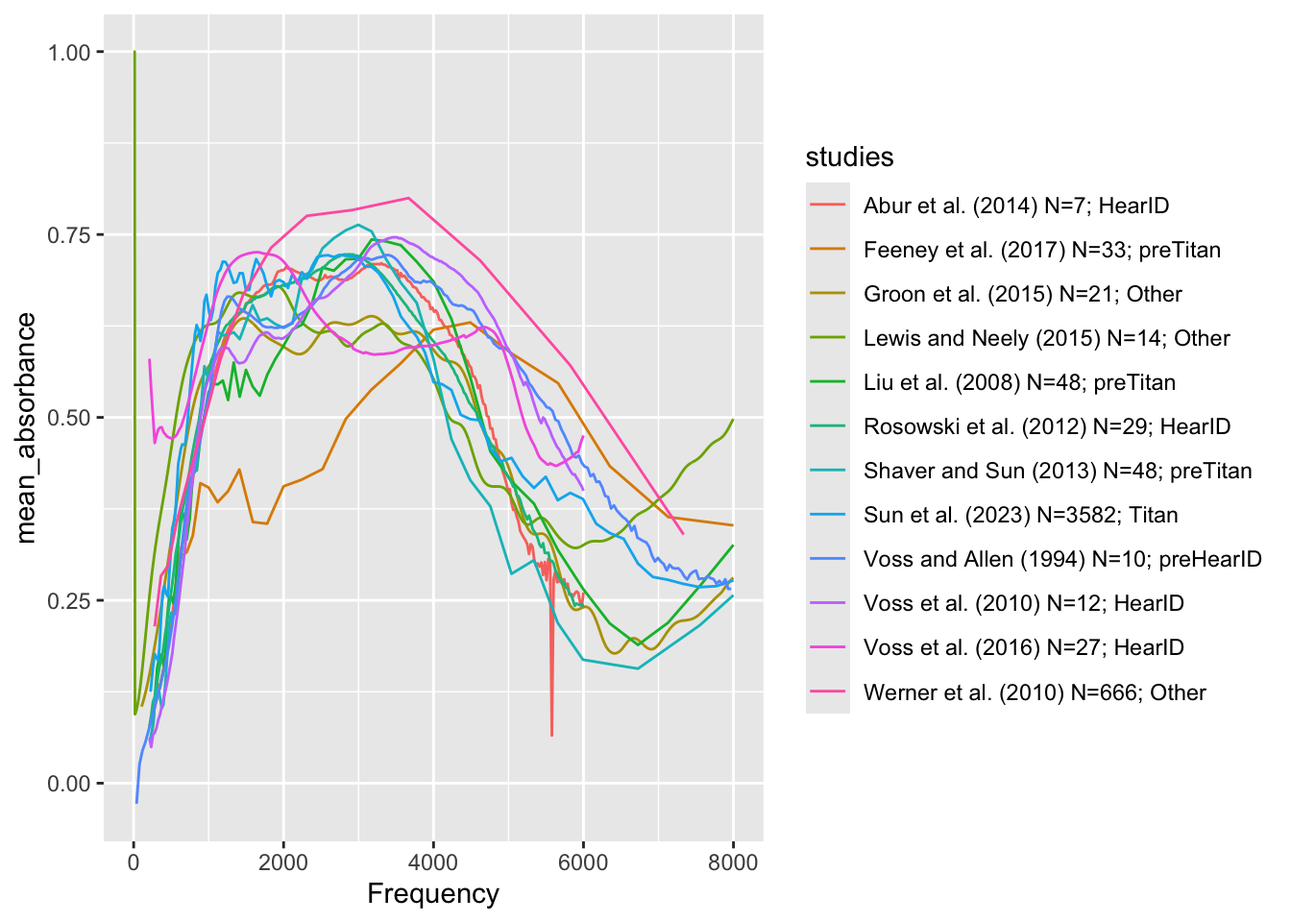
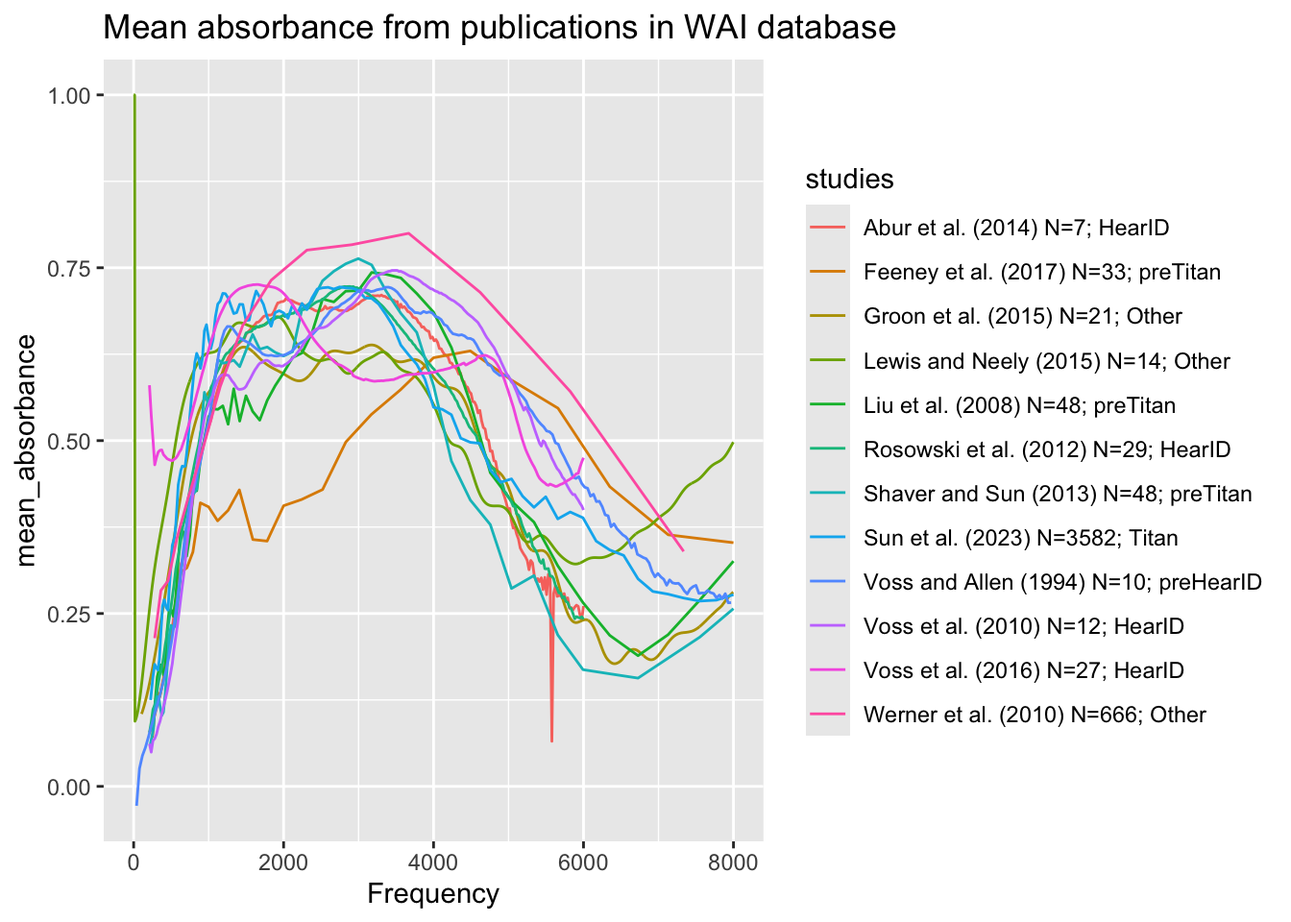
including alt text.

diff --git a/docs/Beta_Simulation.html b/docs/Beta_Simulation.html
@@ -283,7 +283,7 @@ window.Quarto = {
 <p>Time to simulate over different parameter values and sample sizes!</p>
 <div class="cell">
 <div class="sourceCode cell-code" id="cb5"><pre class="sourceCode r code-with-copy"><code class="sourceCode r"><span id="cb5-1"><a href="#cb5-1" aria-hidden="true" tabindex="-1"></a>parameters <span class="ot">&lt;-</span> <span class="fu">seq</span>(<span class="dv">5</span>, <span class="dv">200</span>, <span class="at">by =</span> <span class="dv">2</span>)</span>
-<span id="cb5-2"><a href="#cb5-2" aria-hidden="true" tabindex="-1"></a>n <span class="ot">&lt;-</span> <span class="dv">2</span><span class="sc">:</span><span class="dv">100</span></span>
+<span id="cb5-2"><a href="#cb5-2" aria-hidden="true" tabindex="-1"></a>n <span class="ot">&lt;-</span> <span class="dv">2</span><span class="sc">:</span><span class="dv">500</span></span>
 <span id="cb5-3"><a href="#cb5-3" aria-hidden="true" tabindex="-1"></a>pi <span class="ot">&lt;-</span> .<span class="dv">95</span></span>
 <span id="cb5-4"><a href="#cb5-4" aria-hidden="true" tabindex="-1"></a></span>
 <span id="cb5-5"><a href="#cb5-5" aria-hidden="true" tabindex="-1"></a>beta_df <span class="ot">&lt;-</span> <span class="fu">map</span>(n, \(n) <span class="fu">beta_sims_n</span>(n)) <span class="sc">%&gt;%</span></span>
@@ -296,16 +296,16 @@ window.Quarto = {
 <span id="cb6-3"><a href="#cb6-3" aria-hidden="true" tabindex="-1"></a>  <span class="fu">list_rbind</span>()</span></code><button title="Copy to Clipboard" class="code-copy-button"><i class="bi"></i></button></pre></div>
 <div class="cell-output cell-output-stdout">
 <pre><code>     n PI_percentage     lower     upper     cover alpha beta mean_in_interval
-1   18          0.95 0.3330108 0.6868096 0.9337133    13   13             TRUE
-2   64          0.95 0.4440284 0.5614393 0.9677109   167  167             TRUE
-3   39          0.95 0.4246678 0.5761443 0.9753457   109  109             TRUE
-4   54          0.95 0.4467233 0.5588992 0.9613860   171  171             TRUE
-5   44          0.95 0.4299380 0.5519605 0.9575632   151  151             TRUE
-6   89          0.95 0.4171579 0.6032781 0.9651362    67   67             TRUE
-7   87          0.95 0.4428925 0.5446572 0.9471621   191  191             TRUE
-8   27          0.95 0.4496611 0.5515554 0.8845403   119  119             TRUE
-9  100          0.95 0.3737001 0.6294515 0.9585572    31   31             TRUE
-10  80          0.95 0.4064495 0.5920598 0.9779207    75   75             TRUE</code></pre>
+1  119          0.95 0.4425942 0.5594488 0.9399698   129  129             TRUE
+2  420          0.95 0.4182923 0.5771250 0.9599025    83   83             TRUE
+3   89          0.95 0.4329045 0.5736984 0.9585099   105  105             TRUE
+4  110          0.95 0.4493292 0.5458561 0.9439310   197  197             TRUE
+5  392          0.95 0.3452496 0.6563130 0.9492547    19   19             TRUE
+6  494          0.95 0.4417945 0.5579416 0.9609310   157  157             TRUE
+7  460          0.95 0.2223840 0.7903329 0.9456662     5    5             TRUE
+8  365          0.95 0.4251919 0.5773645 0.9419651    77   77             TRUE
+9  352          0.95 0.4417557 0.5629539 0.9535169   135  135             TRUE
+10  13          0.95 0.4057513 0.6377786 0.9750873    55   55             TRUE</code></pre>
 </div>
 </div>
 <p>This is a random sample of rows from the actual dataset, which has 48902 rows and 8 columns. Each row corresponds to a simulated random sample of size n from a beta distribution with parameters alpha and beta. For each random sample, a normal prediction interval was generated with bounds “lower” and “upper”. “PI_percentage” refers to the intended coverage probability and “cover” refers to the actual coverage probability of said prediction interval over the beta distribution the data was generated from. “mean_in_interval” is a binary variable that states if the prediction interval covered the mean of the distribution.</p>
@@ -317,68 +317,73 @@ window.Quarto = {
 <span id="cb8-2"><a href="#cb8-2" aria-hidden="true" tabindex="-1"></a>  <span class="fu">mutate</span>(<span class="at">diff =</span> cover <span class="sc">-</span> PI_percentage) <span class="sc">%&gt;%</span></span>
 <span id="cb8-3"><a href="#cb8-3" aria-hidden="true" tabindex="-1"></a>  <span class="fu">group_by</span>(n) <span class="sc">%&gt;%</span></span>
 <span id="cb8-4"><a href="#cb8-4" aria-hidden="true" tabindex="-1"></a>  <span class="fu">summarize</span>(<span class="at">mean =</span> <span class="fu">mean</span>(diff), <span class="at">mu_in_interval =</span> <span class="fu">sum</span>(mean_in_interval)<span class="sc">/</span><span class="fu">n</span>())</span>
-<span id="cb8-5"><a href="#cb8-5" aria-hidden="true" tabindex="-1"></a>avg <span class="ot">&lt;-</span> <span class="fu">mean</span>(n_means_df<span class="sc">$</span>mean)</span>
-<span id="cb8-6"><a href="#cb8-6" aria-hidden="true" tabindex="-1"></a><span class="fu">ggplot</span>(n_means_df, <span class="fu">aes</span>(<span class="at">x =</span> n, <span class="at">y =</span> mean)) <span class="sc">+</span> </span>
-<span id="cb8-7"><a href="#cb8-7" aria-hidden="true" tabindex="-1"></a>  <span class="fu">geom_point</span>() <span class="sc">+</span> </span>
-<span id="cb8-8"><a href="#cb8-8" aria-hidden="true" tabindex="-1"></a>  <span class="fu">geom_hline</span>(<span class="at">yintercept =</span> <span class="dv">0</span>, <span class="at">col =</span> <span class="st">"black"</span>)  <span class="sc">+</span></span>
-<span id="cb8-9"><a href="#cb8-9" aria-hidden="true" tabindex="-1"></a>  <span class="fu">geom_hline</span>(<span class="at">yintercept =</span> avg, <span class="at">col =</span> <span class="st">"red"</span>)  <span class="sc">+</span></span>
-<span id="cb8-10"><a href="#cb8-10" aria-hidden="true" tabindex="-1"></a>  <span class="fu">labs</span>(</span>
-<span id="cb8-11"><a href="#cb8-11" aria-hidden="true" tabindex="-1"></a>    <span class="at">x =</span> <span class="st">"sample size"</span>,</span>
-<span id="cb8-12"><a href="#cb8-12" aria-hidden="true" tabindex="-1"></a>    <span class="at">y =</span> <span class="st">"difference between actual and intended coverage"</span>,</span>
-<span id="cb8-13"><a href="#cb8-13" aria-hidden="true" tabindex="-1"></a>    <span class="at">title =</span> <span class="st">"Figure 1"</span>,</span>
-<span id="cb8-14"><a href="#cb8-14" aria-hidden="true" tabindex="-1"></a>    <span class="at">subtitle =</span> <span class="st">"difference between actual and intended coverage probability based on sample size"</span>,</span>
-<span id="cb8-15"><a href="#cb8-15" aria-hidden="true" tabindex="-1"></a>  )</span></code><button title="Copy to Clipboard" class="code-copy-button"><i class="bi"></i></button></pre></div>
+<span id="cb8-5"><a href="#cb8-5" aria-hidden="true" tabindex="-1"></a>avg <span class="ot">&lt;-</span> <span class="fu">mean</span>(n_means_df<span class="sc">$</span>mean)</span></code><button title="Copy to Clipboard" class="code-copy-button"><i class="bi"></i></button></pre></div>
+</div>
+<div class="cell">
+<div class="sourceCode cell-code" id="cb9"><pre class="sourceCode r code-with-copy"><code class="sourceCode r"><span id="cb9-1"><a href="#cb9-1" aria-hidden="true" tabindex="-1"></a><span class="fu">ggplot</span>(n_means_df, <span class="fu">aes</span>(<span class="at">x =</span> n, <span class="at">y =</span> mean)) <span class="sc">+</span> </span>
+<span id="cb9-2"><a href="#cb9-2" aria-hidden="true" tabindex="-1"></a>  <span class="fu">geom_point</span>() <span class="sc">+</span> </span>
+<span id="cb9-3"><a href="#cb9-3" aria-hidden="true" tabindex="-1"></a>  <span class="fu">geom_hline</span>(<span class="at">yintercept =</span> <span class="dv">0</span>, <span class="at">col =</span> <span class="st">"black"</span>)  <span class="sc">+</span></span>
+<span id="cb9-4"><a href="#cb9-4" aria-hidden="true" tabindex="-1"></a>  <span class="fu">geom_hline</span>(<span class="at">yintercept =</span> avg, <span class="at">col =</span> <span class="st">"red"</span>)  <span class="sc">+</span></span>
+<span id="cb9-5"><a href="#cb9-5" aria-hidden="true" tabindex="-1"></a>  <span class="fu">labs</span>(</span>
+<span id="cb9-6"><a href="#cb9-6" aria-hidden="true" tabindex="-1"></a>    <span class="at">x =</span> <span class="st">"sample size"</span>,</span>
+<span id="cb9-7"><a href="#cb9-7" aria-hidden="true" tabindex="-1"></a>    <span class="at">y =</span> <span class="st">"mean difference between actual and intended coverage"</span>,</span>
+<span id="cb9-8"><a href="#cb9-8" aria-hidden="true" tabindex="-1"></a>    <span class="at">title =</span> <span class="st">"Figure 1"</span>,</span>
+<span id="cb9-9"><a href="#cb9-9" aria-hidden="true" tabindex="-1"></a>    <span class="at">subtitle =</span> <span class="st">"difference between actual and intended coverage probability based on sample size"</span>,</span>
+<span id="cb9-10"><a href="#cb9-10" aria-hidden="true" tabindex="-1"></a>  )</span></code><button title="Copy to Clipboard" class="code-copy-button"><i class="bi"></i></button></pre></div>
 <div class="cell-output-display">
 <div>
 <figure class="figure">
-<p><img src="Beta_Simulation_files/figure-html/unnamed-chunk-7-1.png" class="img-fluid figure-img" width="672"></p>
+<p><img src="Beta_Simulation_files/figure-html/unnamed-chunk-8-1.png" class="img-fluid figure-img" alt="A scatter plot titled difference between actual and intended coverage probability based on sample size. The x-axis is sample size and the y-axis is mean difference between actual and intended coverage probability. Each point corresponds to the mean difference between actual and intended coverage probability for simulations of a specific sample size. There are two horizontal lines with slopes of zero. One line has an intercept of zero and the other line has an intercept at the mean difference between actual and intended coverage probability over all simulations. The latter line is above the former line. Points have more vertical spread the closer their x-value is to zero and less vertical spread as their x-value increases." width="672"></p>
 </figure>
 </div>
 </div>
 </div>
-<p>Figure 1 graphs the mean difference between the actual coverage probability and intended coverage probability (calculated as: actual coverage probability - intended coverage probability) per each sample size from 2 to 100. A negative mean difference indicates the actual coverage probability tended to be less than the intended coverage probability, which is undesirable, while a positive mean difference indicates the actual cover probability tended to be more than the intended coverage probability. The mean difference between actual and intended coverage probability seems to converge to a value a little bit above 0 as the sample size increases, indicating that actual coverage probability tends to be more than the intended coverage and that this is more so as sample size increases.</p>
+<p>Figure 1 graphs the mean difference between the actual coverage probability and intended coverage probability (calculated as: actual coverage probability - intended coverage probability) per each sample size from 2 to 500. A negative mean difference indicates the actual coverage probability tended to be less than the intended coverage probability, which is undesirable, while a positive mean difference indicates the actual cover probability tended to be more than the intended coverage probability. The mean difference between actual and intended coverage probability seems to converge to a value a little bit above 0 as the sample size increases, indicating that actual coverage probability tends to be more than the intended coverage and that this is more so as sample size increases.</p>
 <p>For small sample sizes the mean difference between actual and intended coverage probability has a lot more variance around 0 than it does for larger sample sizes, which can be attributed to sampling variability. Overall, absolute differences in actual coverage probability and intended coverage probability don’t appear to extend beyond .02, indicating normal prediction intervals tend to have good coverage probability for symmetric, beta distributed data.</p>
 <div class="cell">
-<div class="sourceCode cell-code" id="cb9"><pre class="sourceCode r code-with-copy"><code class="sourceCode r"><span id="cb9-1"><a href="#cb9-1" aria-hidden="true" tabindex="-1"></a>n_means_df <span class="ot">&lt;-</span> beta_df <span class="sc">%&gt;%</span></span>
-<span id="cb9-2"><a href="#cb9-2" aria-hidden="true" tabindex="-1"></a>  <span class="fu">mutate</span>(<span class="at">diff =</span> cover <span class="sc">-</span> PI_percentage) <span class="sc">%&gt;%</span></span>
-<span id="cb9-3"><a href="#cb9-3" aria-hidden="true" tabindex="-1"></a>  <span class="fu">group_by</span>(n) <span class="sc">%&gt;%</span></span>
-<span id="cb9-4"><a href="#cb9-4" aria-hidden="true" tabindex="-1"></a>  <span class="fu">summarize</span>(<span class="at">mean =</span> <span class="fu">mean</span>(diff), <span class="at">mu_in_interval =</span> <span class="fu">sum</span>(mean_in_interval)<span class="sc">/</span><span class="fu">n</span>()) <span class="sc">%&gt;%</span></span>
-<span id="cb9-5"><a href="#cb9-5" aria-hidden="true" tabindex="-1"></a>  <span class="fu">filter</span>(n <span class="sc">%in%</span> <span class="dv">1</span><span class="sc">:</span><span class="dv">30</span>)</span>
-<span id="cb9-6"><a href="#cb9-6" aria-hidden="true" tabindex="-1"></a></span>
-<span id="cb9-7"><a href="#cb9-7" aria-hidden="true" tabindex="-1"></a><span class="fu">ggplot</span>(n_means_df, <span class="fu">aes</span>(<span class="at">x =</span> n, <span class="at">y =</span> mu_in_interval)) <span class="sc">+</span> </span>
-<span id="cb9-8"><a href="#cb9-8" aria-hidden="true" tabindex="-1"></a>  <span class="fu">geom_point</span>()  <span class="sc">+</span></span>
-<span id="cb9-9"><a href="#cb9-9" aria-hidden="true" tabindex="-1"></a>  <span class="fu">labs</span>(</span>
-<span id="cb9-10"><a href="#cb9-10" aria-hidden="true" tabindex="-1"></a>    <span class="at">x =</span> <span class="st">"sample size"</span>,</span>
-<span id="cb9-11"><a href="#cb9-11" aria-hidden="true" tabindex="-1"></a>    <span class="at">y =</span> <span class="st">"proportion of mu-inclusive prediction intervals"</span>,</span>
-<span id="cb9-12"><a href="#cb9-12" aria-hidden="true" tabindex="-1"></a>    <span class="at">title =</span> <span class="st">"Figure 2"</span>,</span>
-<span id="cb9-13"><a href="#cb9-13" aria-hidden="true" tabindex="-1"></a>    <span class="at">subtitle =</span> <span class="st">"proportion of mu-inclusive prediction intervals based on sample size"</span></span>
-<span id="cb9-14"><a href="#cb9-14" aria-hidden="true" tabindex="-1"></a>  )</span></code><button title="Copy to Clipboard" class="code-copy-button"><i class="bi"></i></button></pre></div>
+<div class="sourceCode cell-code" id="cb10"><pre class="sourceCode r code-with-copy"><code class="sourceCode r"><span id="cb10-1"><a href="#cb10-1" aria-hidden="true" tabindex="-1"></a>n_means_df <span class="ot">&lt;-</span> beta_df <span class="sc">%&gt;%</span></span>
+<span id="cb10-2"><a href="#cb10-2" aria-hidden="true" tabindex="-1"></a>  <span class="fu">mutate</span>(<span class="at">diff =</span> cover <span class="sc">-</span> PI_percentage) <span class="sc">%&gt;%</span></span>
+<span id="cb10-3"><a href="#cb10-3" aria-hidden="true" tabindex="-1"></a>  <span class="fu">group_by</span>(n) <span class="sc">%&gt;%</span></span>
+<span id="cb10-4"><a href="#cb10-4" aria-hidden="true" tabindex="-1"></a>  <span class="fu">summarize</span>(<span class="at">mean =</span> <span class="fu">mean</span>(diff), <span class="at">mu_in_interval =</span> <span class="fu">sum</span>(mean_in_interval)<span class="sc">/</span><span class="fu">n</span>()) <span class="sc">%&gt;%</span></span>
+<span id="cb10-5"><a href="#cb10-5" aria-hidden="true" tabindex="-1"></a>  <span class="fu">filter</span>(n <span class="sc">%in%</span> <span class="dv">1</span><span class="sc">:</span><span class="dv">30</span>)</span></code><button title="Copy to Clipboard" class="code-copy-button"><i class="bi"></i></button></pre></div>
+</div>
+<div class="cell">
+<div class="sourceCode cell-code" id="cb11"><pre class="sourceCode r code-with-copy"><code class="sourceCode r"><span id="cb11-1"><a href="#cb11-1" aria-hidden="true" tabindex="-1"></a><span class="fu">ggplot</span>(n_means_df, <span class="fu">aes</span>(<span class="at">x =</span> n, <span class="at">y =</span> mu_in_interval)) <span class="sc">+</span> </span>
+<span id="cb11-2"><a href="#cb11-2" aria-hidden="true" tabindex="-1"></a>  <span class="fu">geom_point</span>()  <span class="sc">+</span></span>
+<span id="cb11-3"><a href="#cb11-3" aria-hidden="true" tabindex="-1"></a>  <span class="fu">labs</span>(</span>
+<span id="cb11-4"><a href="#cb11-4" aria-hidden="true" tabindex="-1"></a>    <span class="at">x =</span> <span class="st">"sample size"</span>,</span>
+<span id="cb11-5"><a href="#cb11-5" aria-hidden="true" tabindex="-1"></a>    <span class="at">y =</span> <span class="st">"proportion of mu-inclusive prediction intervals"</span>,</span>
+<span id="cb11-6"><a href="#cb11-6" aria-hidden="true" tabindex="-1"></a>    <span class="at">title =</span> <span class="st">"Figure 2"</span>,</span>
+<span id="cb11-7"><a href="#cb11-7" aria-hidden="true" tabindex="-1"></a>    <span class="at">subtitle =</span> <span class="st">"proportion of mu-inclusive prediction intervals based on sample size"</span></span>
+<span id="cb11-8"><a href="#cb11-8" aria-hidden="true" tabindex="-1"></a>  )</span></code><button title="Copy to Clipboard" class="code-copy-button"><i class="bi"></i></button></pre></div>
 <div class="cell-output-display">
 <div>
 <figure class="figure">
-<p><img src="Beta_Simulation_files/figure-html/unnamed-chunk-8-1.png" class="img-fluid figure-img" width="672"></p>
+<p><img src="Beta_Simulation_files/figure-html/unnamed-chunk-10-1.png" class="img-fluid figure-img" alt="A scatter plot titled proportion of mu-inclusive prediction intervals based on sample size. The x-axis is sample size and the y-axis is proportion of mu-inclusive prediction intervals. Each point corresponds to the proportion of simulations of a specific sample size that include the mean of the data's parent distribution, which is half. The x-axis has an interval of two to thirty. The points all have a y-value of one when the x-value is four or greater." width="672"></p>
 </figure>
 </div>
 </div>
 </div>
 <p>Figure 2 plots the proportion of prediction intervals that cover mu = .5 per each sample size from 2 to 30. These points converge to 1 at a sample size of around 4, meaning for sample sizes of 4 or greater it is probable that all random samples with those samples sizes will produce normal-prediction intervals that cover the mean of the beta distribution said data originated from.</p>
 <div class="cell">
-<div class="sourceCode cell-code" id="cb10"><pre class="sourceCode r code-with-copy"><code class="sourceCode r"><span id="cb10-1"><a href="#cb10-1" aria-hidden="true" tabindex="-1"></a>ns_of_interest <span class="ot">&lt;-</span> <span class="fu">c</span>(<span class="dv">5</span>, <span class="dv">10</span>, <span class="dv">30</span>, <span class="dv">50</span>, <span class="dv">100</span>)</span>
-<span id="cb10-2"><a href="#cb10-2" aria-hidden="true" tabindex="-1"></a>beta_df_2 <span class="ot">&lt;-</span> <span class="fu">filter</span>(beta_df,n <span class="sc">%in%</span> ns_of_interest) <span class="sc">%&gt;%</span></span>
-<span id="cb10-3"><a href="#cb10-3" aria-hidden="true" tabindex="-1"></a>  <span class="fu">mutate</span>(<span class="at">sample_size =</span> <span class="fu">as.factor</span>(n))</span>
-<span id="cb10-4"><a href="#cb10-4" aria-hidden="true" tabindex="-1"></a><span class="fu">ggplot</span>(beta_df_2, <span class="fu">aes</span>(<span class="at">x =</span> alpha, <span class="at">y =</span> cover, <span class="at">color =</span> sample_size)) <span class="sc">+</span></span>
-<span id="cb10-5"><a href="#cb10-5" aria-hidden="true" tabindex="-1"></a>  <span class="fu">geom_point</span>() <span class="sc">+</span></span>
-<span id="cb10-6"><a href="#cb10-6" aria-hidden="true" tabindex="-1"></a>  <span class="fu">geom_smooth</span>(<span class="fu">aes</span>(<span class="at">line =</span> n ), <span class="at">se =</span> <span class="cn">FALSE</span>) <span class="sc">+</span></span>
-<span id="cb10-7"><a href="#cb10-7" aria-hidden="true" tabindex="-1"></a>  <span class="fu">labs</span>(</span>
-<span id="cb10-8"><a href="#cb10-8" aria-hidden="true" tabindex="-1"></a>    <span class="at">x =</span> <span class="st">"value of alpha and beta"</span>,</span>
-<span id="cb10-9"><a href="#cb10-9" aria-hidden="true" tabindex="-1"></a>    <span class="at">y =</span> <span class="st">"actual coverage probability"</span>,</span>
-<span id="cb10-10"><a href="#cb10-10" aria-hidden="true" tabindex="-1"></a>    <span class="at">title =</span> <span class="st">"Figure 3"</span>,</span>
-<span id="cb10-11"><a href="#cb10-11" aria-hidden="true" tabindex="-1"></a>    <span class="at">subtitle =</span> <span class="st">"actual coverage probability based on parameter values"</span></span>
-<span id="cb10-12"><a href="#cb10-12" aria-hidden="true" tabindex="-1"></a>  )</span></code><button title="Copy to Clipboard" class="code-copy-button"><i class="bi"></i></button></pre></div>
+<div class="sourceCode cell-code" id="cb12"><pre class="sourceCode r code-with-copy"><code class="sourceCode r"><span id="cb12-1"><a href="#cb12-1" aria-hidden="true" tabindex="-1"></a>ns_of_interest <span class="ot">&lt;-</span> <span class="fu">c</span>(<span class="dv">5</span>, <span class="dv">10</span>, <span class="dv">30</span>, <span class="dv">50</span>, <span class="dv">100</span>)</span>
+<span id="cb12-2"><a href="#cb12-2" aria-hidden="true" tabindex="-1"></a>beta_df_2 <span class="ot">&lt;-</span> <span class="fu">filter</span>(beta_df,n <span class="sc">%in%</span> ns_of_interest) <span class="sc">%&gt;%</span></span>
+<span id="cb12-3"><a href="#cb12-3" aria-hidden="true" tabindex="-1"></a>  <span class="fu">mutate</span>(<span class="at">sample_size =</span> <span class="fu">as.factor</span>(n))</span></code><button title="Copy to Clipboard" class="code-copy-button"><i class="bi"></i></button></pre></div>
+</div>
+<div class="cell">
+<div class="sourceCode cell-code" id="cb13"><pre class="sourceCode r code-with-copy"><code class="sourceCode r"><span id="cb13-1"><a href="#cb13-1" aria-hidden="true" tabindex="-1"></a><span class="fu">ggplot</span>(beta_df_2, <span class="fu">aes</span>(<span class="at">x =</span> alpha, <span class="at">y =</span> cover, <span class="at">color =</span> sample_size)) <span class="sc">+</span></span>
+<span id="cb13-2"><a href="#cb13-2" aria-hidden="true" tabindex="-1"></a>  <span class="fu">geom_point</span>() <span class="sc">+</span></span>
+<span id="cb13-3"><a href="#cb13-3" aria-hidden="true" tabindex="-1"></a>  <span class="fu">geom_smooth</span>(<span class="fu">aes</span>(<span class="at">line =</span> n ), <span class="at">se =</span> <span class="cn">FALSE</span>) <span class="sc">+</span></span>
+<span id="cb13-4"><a href="#cb13-4" aria-hidden="true" tabindex="-1"></a>  <span class="fu">labs</span>(</span>
+<span id="cb13-5"><a href="#cb13-5" aria-hidden="true" tabindex="-1"></a>    <span class="at">x =</span> <span class="st">"value of alpha and beta"</span>,</span>
+<span id="cb13-6"><a href="#cb13-6" aria-hidden="true" tabindex="-1"></a>    <span class="at">y =</span> <span class="st">"actual coverage probability"</span>,</span>
+<span id="cb13-7"><a href="#cb13-7" aria-hidden="true" tabindex="-1"></a>    <span class="at">title =</span> <span class="st">"Figure 3"</span>,</span>
+<span id="cb13-8"><a href="#cb13-8" aria-hidden="true" tabindex="-1"></a>    <span class="at">subtitle =</span> <span class="st">"actual coverage probability based on parameter values"</span></span>
+<span id="cb13-9"><a href="#cb13-9" aria-hidden="true" tabindex="-1"></a>  )</span></code><button title="Copy to Clipboard" class="code-copy-button"><i class="bi"></i></button></pre></div>
 <div class="cell-output-display">
 <div>
 <figure class="figure">
-<p><img src="Beta_Simulation_files/figure-html/unnamed-chunk-9-1.png" class="img-fluid figure-img" width="672"></p>
+<p><img src="Beta_Simulation_files/figure-html/unnamed-chunk-12-1.png" class="img-fluid figure-img" alt="A scatter plot titled actual coverage probability based on parameter values. Each point represents one simulation and has a specific color. There are five colors representing sample sizes five, ten, thirty, fifty, and one hundred. There are also five lines in the plot. Each line is the line of best fit for points corresponding to a specific color. The x-axis is value of alpha and beta, and the y-axis is actual coverage probability. All the lines tend to overlap. The points corresponding to sample sizes five and ten are more spread out vertically than the points corresponding to other sample sizes." width="672"></p>
 </figure>
 </div>
 </div>

diff --git a/docs/SQL_Proj.html b/docs/SQL_Proj.html
@@ -237,11 +237,14 @@ pre > code.sourceCode > span > a:first-child::before { text-decoration: underlin
 <div class="cell">
 <div class="sourceCode cell-code" id="cb4"><pre class="sourceCode r code-with-copy"><code class="sourceCode r"><span id="cb4-1"><a href="#cb4-1" aria-hidden="true" tabindex="-1"></a>table1 <span class="sc">%&gt;%</span></span>
 <span id="cb4-2"><a href="#cb4-2" aria-hidden="true" tabindex="-1"></a>  <span class="fu">ggplot</span>(<span class="fu">aes</span>(<span class="at">x =</span> Frequency, <span class="at">y =</span> mean_absorbance)) <span class="sc">+</span></span>
-<span id="cb4-3"><a href="#cb4-3" aria-hidden="true" tabindex="-1"></a>  <span class="fu">geom_line</span>(<span class="fu">aes</span>(<span class="at">color =</span> studies), <span class="at">se =</span> <span class="cn">FALSE</span>)</span></code><button title="Copy to Clipboard" class="code-copy-button"><i class="bi"></i></button></pre></div>
+<span id="cb4-3"><a href="#cb4-3" aria-hidden="true" tabindex="-1"></a>  <span class="fu">geom_line</span>(<span class="fu">aes</span>(<span class="at">color =</span> studies), <span class="at">se =</span> <span class="cn">FALSE</span>) <span class="sc">+</span> </span>
+<span id="cb4-4"><a href="#cb4-4" aria-hidden="true" tabindex="-1"></a>  <span class="fu">labs</span>(</span>
+<span id="cb4-5"><a href="#cb4-5" aria-hidden="true" tabindex="-1"></a>    <span class="at">title =</span> <span class="st">"Mean absorbance from publications in WAI database"</span></span>
+<span id="cb4-6"><a href="#cb4-6" aria-hidden="true" tabindex="-1"></a>  )</span></code><button title="Copy to Clipboard" class="code-copy-button"><i class="bi"></i></button></pre></div>
 <div class="cell-output-display">
 <div>
 <figure class="figure">
-<p><img src="SQL_Proj_files/figure-html/unnamed-chunk-4-1.png" class="img-fluid figure-img" width="672"></p>
+<p><img src="SQL_Proj_files/figure-html/unnamed-chunk-4-1.png" class="img-fluid figure-img" alt="A line plot titled mean absorbance from publications in WAI database. Each line represents data from a specific study in the WAI database. There are twelve lines representing data from twelve studies. The x-axis is frequency and the y-axis is mean absorbance. The lines trend upwards from frequencies 0 to 3000 and trend downwards from frequencies 3000 to 6000." width="672"></p>
 </figure>
 </div>
 </div>
@@ -262,11 +265,14 @@ pre > code.sourceCode > span > a:first-child::before { text-decoration: underlin
 <div class="cell">
 <div class="sourceCode cell-code" id="cb6"><pre class="sourceCode r code-with-copy"><code class="sourceCode r"><span id="cb6-1"><a href="#cb6-1" aria-hidden="true" tabindex="-1"></a>table2 <span class="sc">%&gt;%</span></span>
 <span id="cb6-2"><a href="#cb6-2" aria-hidden="true" tabindex="-1"></a>  <span class="fu">ggplot</span>(<span class="fu">aes</span>(<span class="at">x =</span> freq, <span class="at">y =</span> mean_absorbance, <span class="at">color =</span> sex)) <span class="sc">+</span></span>
-<span id="cb6-3"><a href="#cb6-3" aria-hidden="true" tabindex="-1"></a>  <span class="fu">geom_line</span>(<span class="at">se =</span> <span class="cn">FALSE</span>)</span></code><button title="Copy to Clipboard" class="code-copy-button"><i class="bi"></i></button></pre></div>
+<span id="cb6-3"><a href="#cb6-3" aria-hidden="true" tabindex="-1"></a>  <span class="fu">geom_line</span>(<span class="at">se =</span> <span class="cn">FALSE</span>) <span class="sc">+</span></span>
+<span id="cb6-4"><a href="#cb6-4" aria-hidden="true" tabindex="-1"></a>  <span class="fu">labs</span>(</span>
+<span id="cb6-5"><a href="#cb6-5" aria-hidden="true" tabindex="-1"></a>    <span class="at">title =</span> <span class="st">"Mean absorbance from babies of different sexes"</span></span>
+<span id="cb6-6"><a href="#cb6-6" aria-hidden="true" tabindex="-1"></a>  )</span></code><button title="Copy to Clipboard" class="code-copy-button"><i class="bi"></i></button></pre></div>
 <div class="cell-output-display">
 <div>
 <figure class="figure">
-<p><img src="SQL_Proj_files/figure-html/unnamed-chunk-6-1.png" class="img-fluid figure-img" width="672"></p>
+<p><img src="SQL_Proj_files/figure-html/unnamed-chunk-6-1.png" class="img-fluid figure-img" alt="A line plot titled mean absorbance from babies of different sexes. Each line represents data of  babies of a specific sex. There are two lines representing male babies and female babies. The x-axis is frequency and the y-axis is mean absorbance. The line representing male babies tends to be above the line representing female babies." width="672"></p>
 </figure>
 </div>
 </div>
